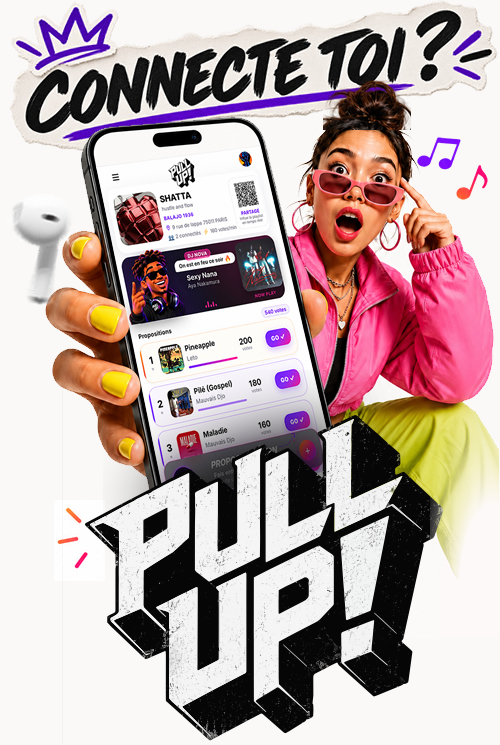
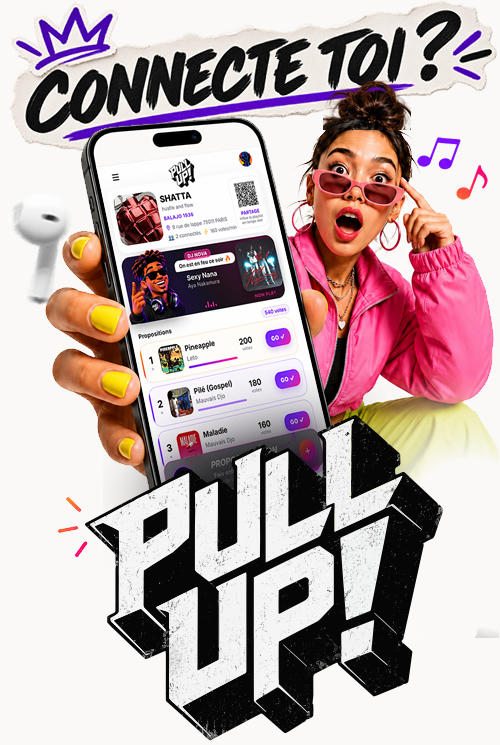
Use the cleaner version of the login hero image (no stray artifact)

Changed region(s): [[0.72, 0.494, 1.0, 0.7718], [0.12, 0.6483, 0.18, 0.7718], [0.96, 0.8336, 0.99, 0.8644]]

diff --git a/public/index.html b/public/index.html
@@ -840,7 +840,7 @@ button:active{opacity:.75;transform:scale(.97);transition:opacity .08s,transform
 <div class="page active" id="pg-auth">
   <div class="auth-wrap" style="position:relative">
     <div class="auth-hero" style="text-align:center">
-      <img src="/images/TEMPLATE%261.png?v=6" alt="Pull up — Connecte-toi" class="auth-promo-img">
+      <img src="/images/TEMPLATE%261.png?v=7" alt="Pull up — Connecte-toi" class="auth-promo-img">
     </div>
     <div class="auth-card" style="margin-top:-20px">
       <div class="auth-card-ttl">Connectez-vous pour voter</div>
